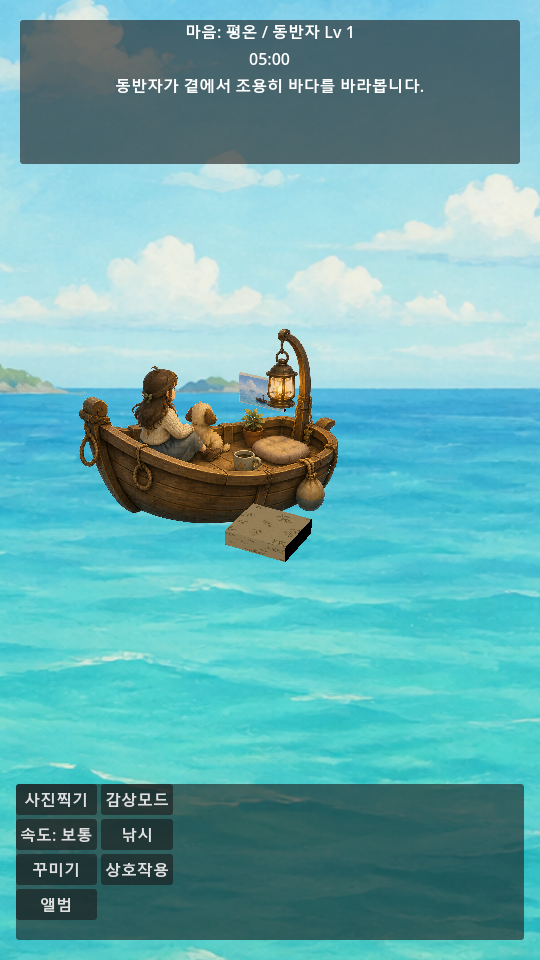
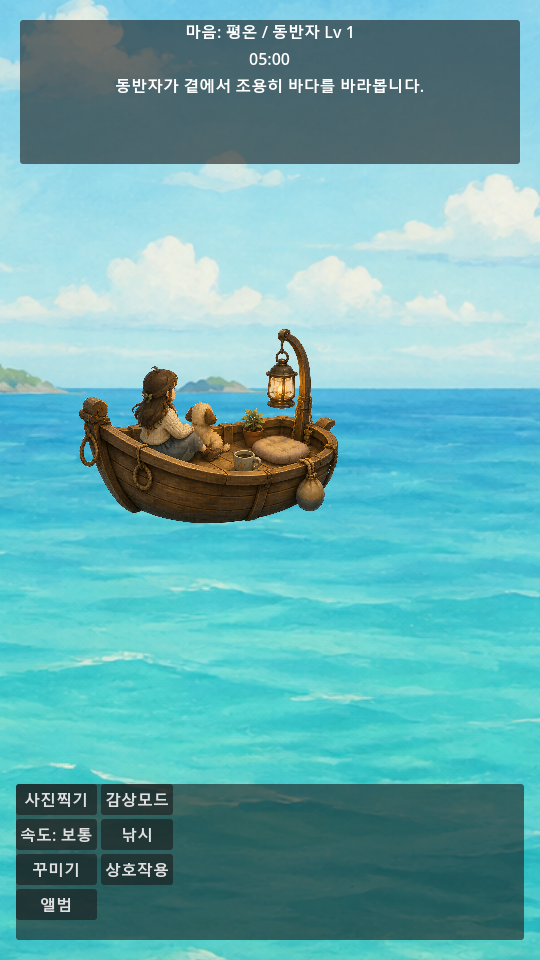
Fix final composite decor rendering

Changed region(s): [[0.4148, 0.5, 0.5926, 0.5938], [0.4444, 0.375, 0.5037, 0.4375]]

diff --git a/docs/handoffs/CURRENT_GODOT_IMPLEMENTATION.md b/docs/handoffs/CURRENT_GODOT_IMPLEMENTATION.md
@@ -174,3 +174,4 @@ FOUR_TIME_HUMAN_COMFORT_REVIEW = NOT_RUN
 - `RestingSoundscape` now owns a 16-second stereo authored `OceanBed` runtime candidate at a conservative -18 dB. It preserves the wave-first layer priority and does not alter voyage, reward, camera, or social state. Automated loop wiring passes; human headset/speaker/mobile listening remains `NOT_RUN`.
 - Runtime identity selection is local-first: the main-menu `내 모습과 동반자` panel stores one approved player ID and one pet ID only in `user://identity_profile_v1.cfg`. C knit + dog preserves `FinalDioramaCard` unchanged; all other pairs use the shared boat/sea pass plus exactly one selected player card and one selected pet card. Five new 1024×1024 transparent runtime cards are individually registered in Notion Asset Library with SHA-256/provenance/durable repo locators. Normal and Appreciation GPU runtime captures for C+dog and B+otter are stored at `docs/evidence/2026-08-27-runtime-identity-selection/`. User mobile touch QA remains deferred.
 - The four-time atmosphere layer is a process-lifetime pre-voyage choice only: Dawn / Bright / Sunset / Night apply the approved restrained environment, key-light, and shared backdrop modulation to the same scene. Bright preserves the approved Bright sea art; no image binary, map, shader, audio, timer, reward, identity, decor, social, or postcard-variant behavior was added. Eight OpenGL 540×960 Normal/Appreciation captures and hashes are at `docs/evidence/2026-08-27-four-time-atmosphere/`. Human comfort and real-device mobile QA remain deferred.
+- Current-task correction: the C+dog final composite now hides only its detached `pet_corner` and `rail_accent` technical meshes, then renders the selected approved cushion surface and default postcard as flat storybook overlays. Four-time captures now isolate test decor/identity state and fail before capture if required imported textures are unavailable. The focused contracts and a 540×960 floral-cushion/postcard capture are at `docs/evidence/2026-08-27-final-composite-decor/`. Current-task PR is pending; human/mobile QA remains deferred.

diff --git a/docs/evidence/2026-08-27-four-time-atmosphere/README.md b/docs/evidence/2026-08-27-four-time-atmosphere/README.md
@@ -8,9 +8,9 @@ The eight PNG files are runtime observations of one unchanged boat/sea/player/pe
 
 | State | Normal SHA-256 | Appreciation SHA-256 |
 | --- | --- | --- |
-| Dawn | AA47576E762FA55828DE11D4AD9A860672068CB7719B963CF2BA33F0345C10B4 | 9EE061BA30C930ACD705CEBF5B78E278803A24388CF599E96B5E5BD89C8DFDFC |
-| Bright | A302340E962EC36F8241BF64980E49EB88E7B46BBF3BAA00C63E5ADC89A71F94 | B48CB1A69D23192D01CF2B736A8F1A6554AE02528A50112A8750A456FEF520EF |
-| Sunset | 80476C4177D2C6D726DEF333C76E1DD81E47AA03F85BCD4BF702F7F4519E384C | 8468D6E4AB0D958EA2320DAC3400CFB1C4356FECA0944A4D429BD6AE79579CAB |
-| Night | 71D5AE4B85E01C87A38B4A79B7DD0C7260539598927EBB606642D31D1079952F | 1E5A05312302EDD01B48F7C109649251E82E28DB1190484655CDA88CF66249D3 |
+| Dawn | 460A715142FD745DCC34B61D0542BB9F15F7BFBEBD021430036851B2565A788C | C2230973EF67F15F56B980330CF6E088D71C0417F06EA201B3F083A15AD15043 |
+| Bright | BEA5D5D9C71D92AE2E25F416D710DC5D7352330E57722976B6E8A5369DE0E65B | EFA0F2BB32E769B735CA119B7187AE875AE7692A0FD9C6E3418DA06FFA7E66D8 |
+| Sunset | 1CE6D157CF0A39FA3EA4808D7B04E07768E659B4E77268C5DBE5A27F34DD18B4 | 8FAA25772E7AEA3690A2356C2B020F4C3E8A015492CDDE1467E29ED32F20937F |
+| Night | CA0D6CE2DE7B2601D27D936E8236D2425E63B59B1EA33C70BA96F908C6FF19CC | 2BD6341A079A2088B2FB0959F1DF988B2B3B78F7B8BEE7C1FB4E0352E1820A22 |
 
 Automated evidence confirms four distinct tone treatments and shared camera application. It does not replace human comfort, art-direction, or real-device/mobile QA.

diff --git a/docs/evidence/2026-08-27-final-composite-decor/README.md b/docs/evidence/2026-08-27-final-composite-decor/README.md
@@ -1,0 +1,12 @@
+# Final Composite Decor Runtime Evidence
+
+Branch: `codex/runtime-visual-audit`.
+Route: Godot 4.7.2 OpenGL Compatibility renderer, 540×960.
+
+`floral-cushion-postcard_540x960.png` proves the approved floral cushion surface and default Bright Boat postcard render as flat storybook overlays in the C+dog final-composite route. The former detached technical 3D meshes are hidden only for those two final-composite slots; layered identity routes retain their technical decor route.
+
+| Capture | SHA-256 |
+| --- | --- |
+| Floral cushion + postcard | 7286DF75794AEFE1C5F5E39FA6FC0918D0D7F289495B4C457495EEFBE292F0C9 |
+
+This is runtime evidence, not a new production asset.
